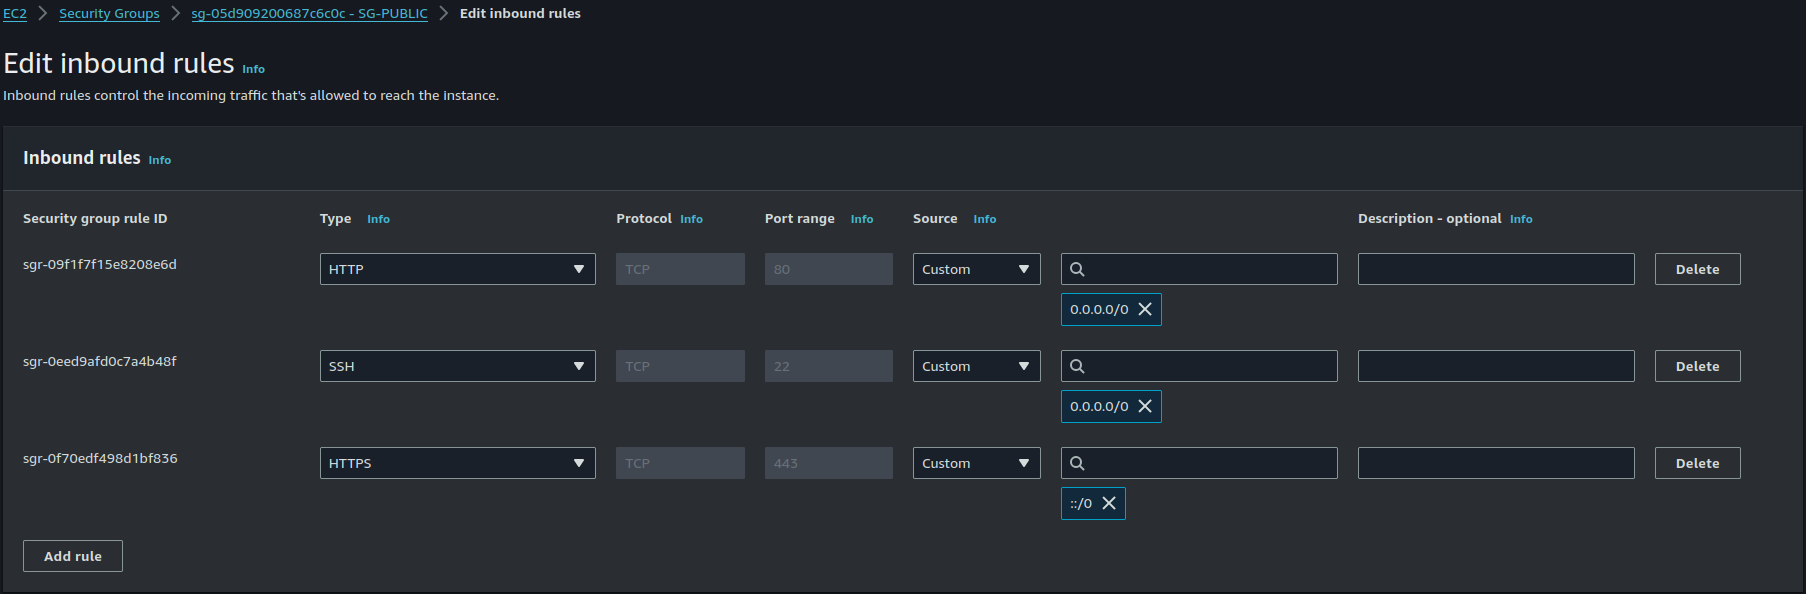
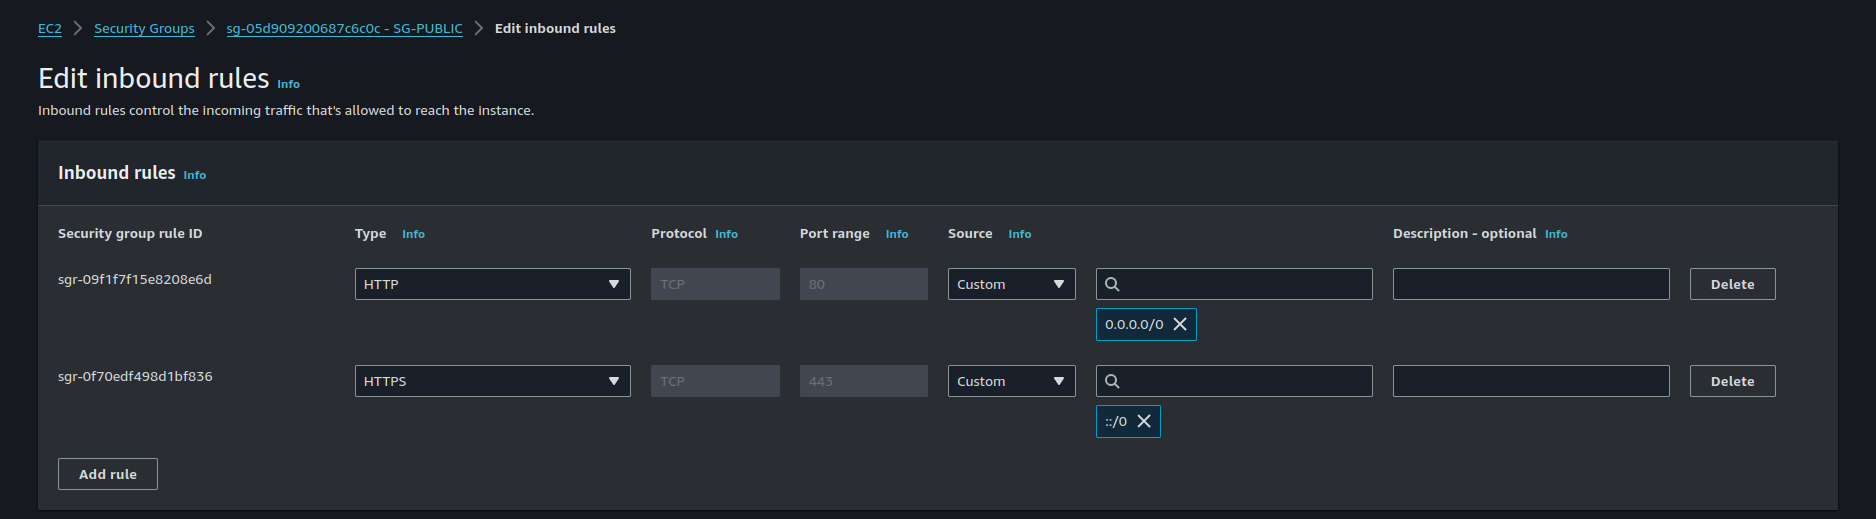
Update README.md and SGs

diff --git a/Atividade 02/README.md b/Atividade 02/README.md
@@ -45,8 +45,6 @@ Pontos de atenção:
 |-----------------|-----------|-------|-----------|
 | HTTP            | TCP       | 80    | 0.0.0.0/0 |
 | HTTPS           | TCP       | 443   | ::/0      |
-| SSH             | TCP       | 22    | 0.0.0.0/0 |
-
 
 [SG-PRIVATE](./Prints/Security%20Groups/SG-PRIVATE.png) - das Instâncias EC2
 
@@ -56,12 +54,10 @@ Pontos de atenção:
 | HTTPS           | TCP       | 443   | SG-PUBLIC |
 | SSH             | TCP       | 22    | SG-PUBLIC |
 
-
 [SG-EFS](./Prints/Security%20Groups/SG-EFS.png) - para conexão do NFS
 | Tipo            | Protocolo | Porta | Origem     |
 |-----------------|-----------|-------|------------|
 | NFS             | TCP       | 2049  | SG-PRIVATE |
-
 
 [SG-RDS](./Prints/Security%20Groups/SG-RDS.png) - para conexão do banco de dados
 | Tipo            | Protocolo | Porta | Origem     |
